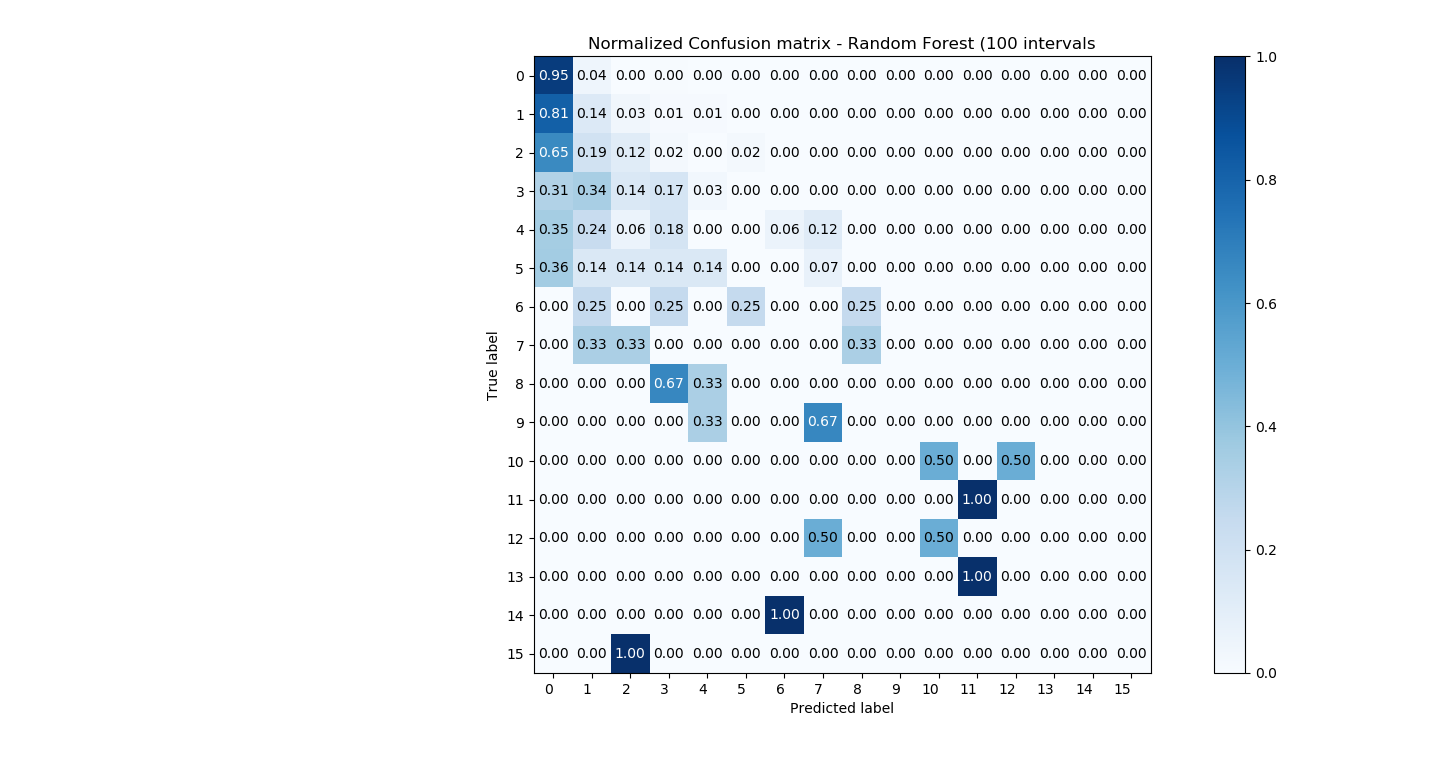
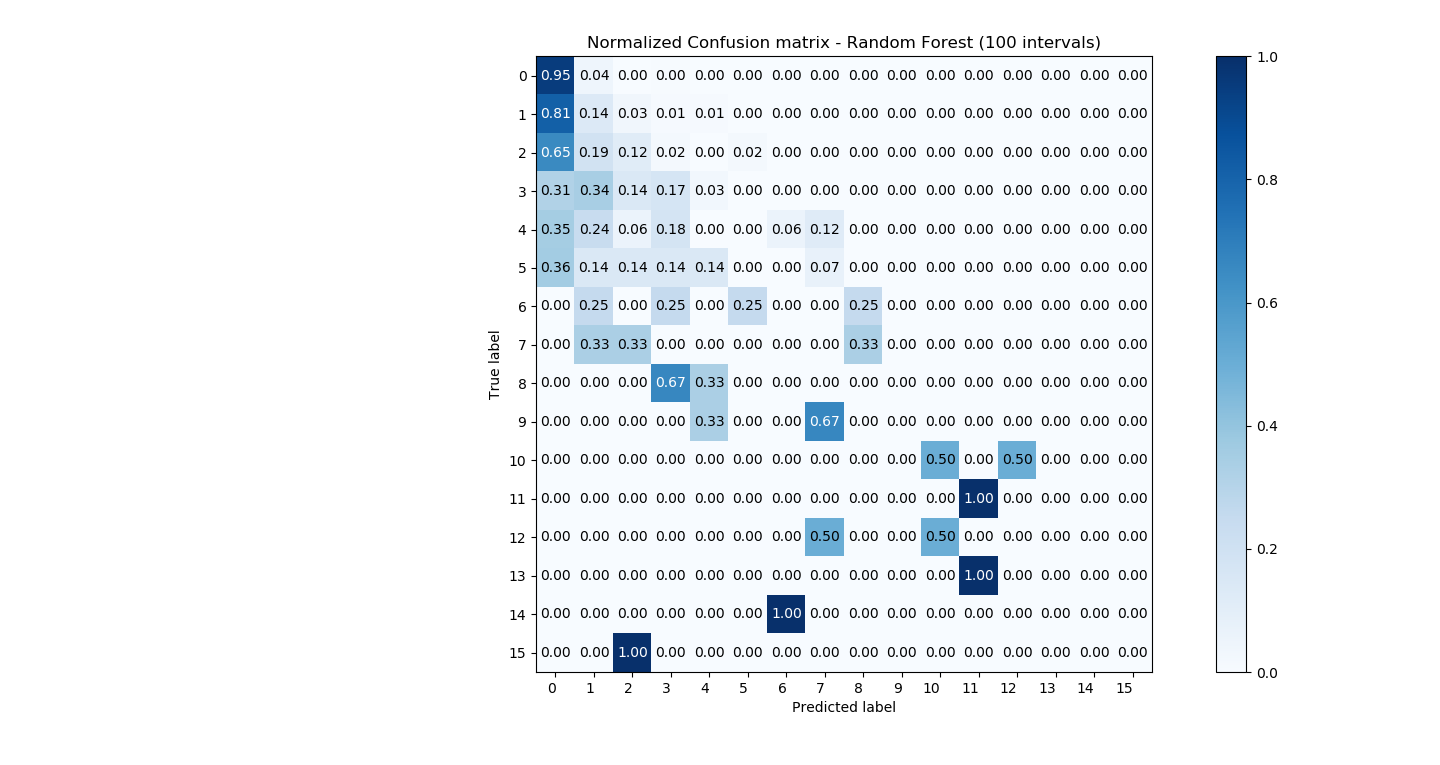
Updated Matrices

diff --git a/SanmeshCodes/SVM_confusion_matrix.py b/SanmeshCodes/SVM_confusion_matrix.py
@@ -85,7 +85,7 @@ print(class_names)
 print(ytest_actual)
 print(ytest_predicted)
 plot_confusion_matrix(ytest_actual, ytest_predicted, classes=class_names, normalize=False,title='Confusion matrix - Random Forest (100 intervals)')
-plot_confusion_matrix(ytest_actual, ytest_predicted, classes=class_names, normalize=True,title='Normalized Confusion matrix - Random Forest (100 intervals')
+plot_confusion_matrix(ytest_actual, ytest_predicted, classes=class_names, normalize=True,title='Normalized Confusion matrix - Random Forest (100 intervals)')
 #plt.savefig("RF_100_ConfusionMat.png")
 #plt.close()
 plt.show()
@@ -96,10 +96,10 @@ class_names=np.unique(ytest_actual)
 print(class_names)
 print(ytest_actual)
 print(ytest_predicted)
-plot_confusion_matrix(ytest_actual, ytest_predicted, classes=class_names, normalize=False,title='Confusion matrix - Random Forest (300 intervals')
+plot_confusion_matrix(ytest_actual, ytest_predicted, classes=class_names, normalize=False,title='Confusion matrix - Random Forest (300 intervals)')
 plt.savefig("RF_300_ConfusionMat.png")
 plt.close()
-plot_confusion_matrix(ytest_actual, ytest_predicted, classes=class_names, normalize=True,title='Normalized Confusion matrix - Random Forest (300 intervals')
+plot_confusion_matrix(ytest_actual, ytest_predicted, classes=class_names, normalize=True,title='Normalized Confusion matrix - Random Forest (300 intervals)')
 plt.savefig("RF_300_Norm_ConfusionMat.png")
 plt.close()
 

diff --git a/README.md b/README.md
@@ -285,11 +285,12 @@ What is interesting is that the PCA data with normalization performed worse than
   <img src="PrithviCodes/plots/Line_chart_gamma_f1score.png" >
 </p> 
 
+We have plotted our classification result for both 300
 <p align="center">
   <img src="Figures/SVM_300_Norm_ConfusionMat.png" >
 </p> 
 
-<p align="center">
+<p align="left">
   <img src="Figures/SVM_100_Norm_ConfusionMat.png" >
 </p> 
 
@@ -305,7 +306,7 @@ What is interesting is that the PCA data with normalization performed worse than
   <img src="Figures/RF_300_Norm_ConfusionMat.png" >
 </p> 
 
-<p align="center">
+<p align="left">
   <img src="Figures/RF_100_Norm_ConfusionMat.png" >
 </p> 
 
